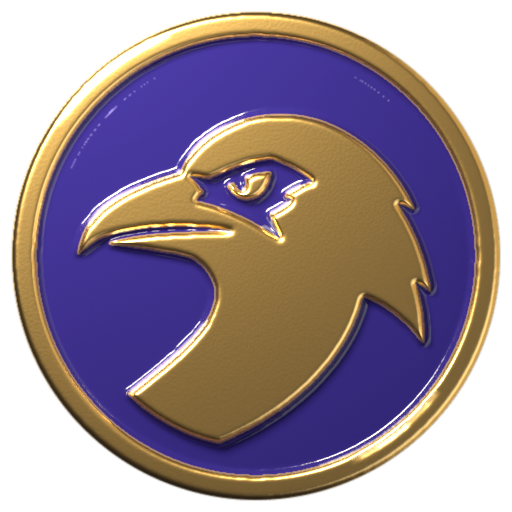
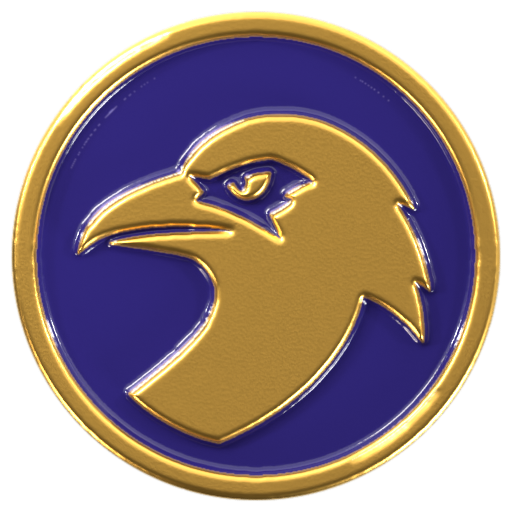
Монетка под настоящим студийным светом
coin.py берёт свет из студийной HDRI-карты Poly Haven (CC0, hdri.py
скачивает её один раз в ~/.cache/stungkir-hdri): по ободу и скатам
живые блики софтбоксов, эмаль глубже, золото теплее. Камням HDRI не
помогла (матовые - съела объём), их свет прежний.

Claude-Session: https://claude.ai/code/session_01KZCacXiU3RRiQPw1Ee69wE

diff --git a/packaging/blender/hdri.py b/packaging/blender/hdri.py
@@ -1,0 +1,46 @@
+# StungKir - писательский блокнот. Copyright (C) 2026 KiriFesTung
+# SPDX-License-Identifier: GPL-3.0-or-later
+"""Настоящий студийный свет для сцен Blender: HDRI-карта с Poly Haven (CC0 - можно где угодно и без подписи).
+Карта скачивается один раз в ~/.cache/stungkir-hdri (в репозиторий не кладётся - 6 МБ).
+Металл и эмаль отражают софтбоксы студии - выглядят как на фото, а не как под одной лампой."""
+
+import math
+import urllib.request
+from pathlib import Path
+
+import bpy
+
+CACHE = Path.home() / ".cache" / "stungkir-hdri"
+URL = "https://dl.polyhaven.org/file/ph-assets/HDRIs/hdr/2k/{name}_2k.hdr"
+
+
+def fetch(name):
+    path = CACHE / f"{name}_2k.hdr"
+    if not path.exists():
+        CACHE.mkdir(parents=True, exist_ok=True)
+        part = path.with_suffix(".part")
+        urllib.request.urlretrieve(URL.format(name=name), part)
+        part.rename(path)
+    return path
+
+
+def world(name="studio_small_09", strength=1.0, turn=0.0, visible=False):
+    """Окружение сцены - HDRI name, повёрнутое на turn градусов. visible=False - фон прозрачный
+    (на картинке только предмет), но свет и отражения - от студии."""
+    tree_world = bpy.data.worlds.new(name)
+    tree_world.use_nodes = True
+    nodes, links = tree_world.node_tree.nodes, tree_world.node_tree.links
+    coords = nodes.new("ShaderNodeTexCoord")
+    mapping = nodes.new("ShaderNodeMapping")
+    mapping.inputs["Rotation"].default_value = (0, 0, math.radians(turn))
+    env = nodes.new("ShaderNodeTexEnvironment")
+    env.image = bpy.data.images.load(str(fetch(name)))
+    links.new(coords.outputs["Generated"], mapping.inputs["Vector"])
+    links.new(mapping.outputs["Vector"], env.inputs["Vector"])
+    background = nodes["Background"]
+    background.inputs["Strength"].default_value = strength
+    links.new(env.outputs["Color"], background.inputs["Color"])
+    scene = bpy.context.scene
+    scene.world = tree_world
+    scene.render.film_transparent = not visible
+    return tree_world
